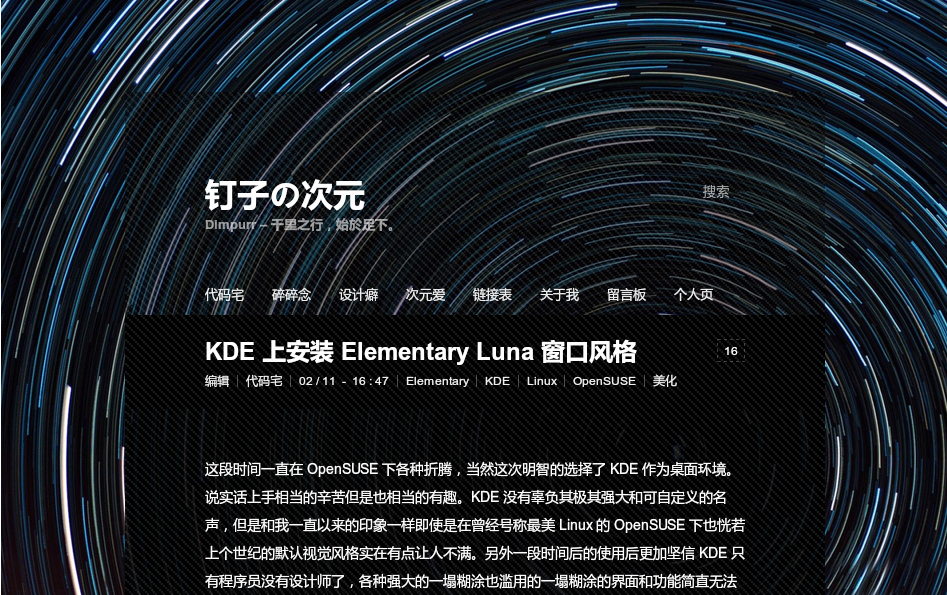
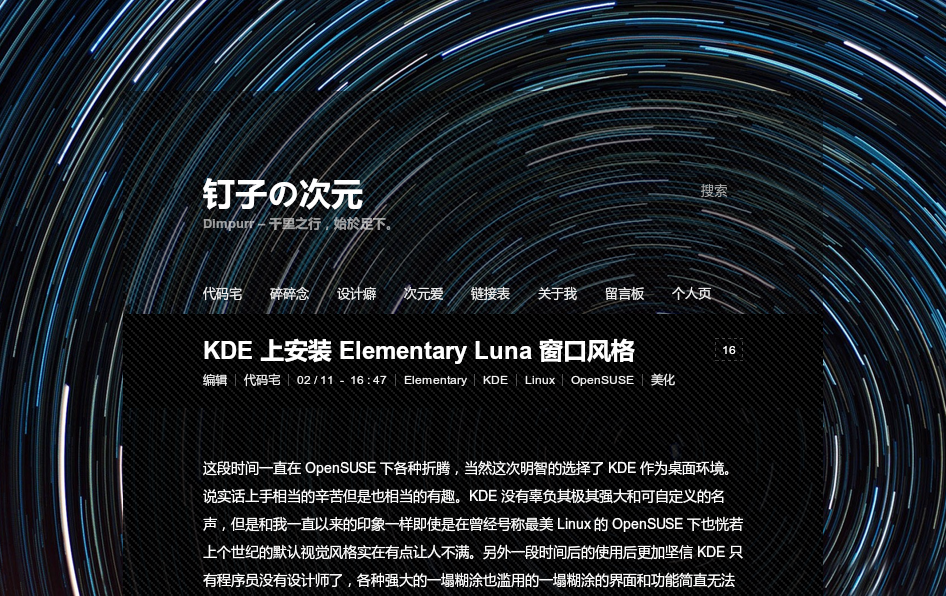
Add Setting Page and multi language.
Repair an important comments cache privacy bug.

diff --git a/style.css b/style.css
@@ -1,7 +1,7 @@
 /*
 Theme Name: madoro
 Theme URI: http://dimpurr.com/madoro
-Version: 1.0
+Version: 1.1
 Author: Dimpurr
 Author URI: http://dimpurr.com
 Description: A Flat Dark WordPress Theme.
@@ -71,7 +71,7 @@ body {
 }
 
 #page {
-	max-width: 700px;
+	max-width: 800px;
 	margin: 0 auto;
 }
 

diff --git a/functions.php b/functions.php
@@ -190,44 +190,39 @@ endif;
 
 function dpt_menu_func(){   
 	add_theme_page(
-		__('设置','dpt'),
-		__('设置','dpt'),
+		__('madoro 主题设置','dpt'),
+		__('madoro 主题设置','dpt'),
 		'administrator',
 		'dpt_menu',
 		'dpt_config');
 }
 
-// add_action('admin_menu', 'dpt_menu_func');
+function my_admin_bar_render() {
+	global $wp_admin_bar;
+	$wp_admin_bar->add_menu( array(
+		'parent' => 'wp-admin-bar-site-name',
+		'id' => 'theme_setting',
+		'title' => __('madoro 设置','dpt'),
+		'href' => admin_url( 'themes.php?page=dpt_menu'),
+	));
+}
 
-function dpt_config(){ dpt_thtj(); ?>
+add_action('admin_menu', 'dpt_menu_func');
+add_action( 'wp_before_admin_bar_render', 'my_admin_bar_render' );
+
+function dpt_config(){ dpt_count(); ?>
+
+<h1><?php _e('madoro 主题设置'); ?></h1>
 
 <form method="post" name="dpt_form" id="dpt_form">
 
-<h1><?php _e('主题设置'); ?></h1>
+	<h3><a href="http://blog.dimpurr.com/madoro">madoro 主题主页→</a></h3>
 
-<input type="text" size="80" name="dpt_example" id="dpt_example" placeholder="<?php _e('示例控件','dpt'); ?>" value="<?php echo get_option('dpt_example'); ?>"/>
-<input type="button" name="upload_button" value="<?php _e('上传','dpt'); ?>" id="upbottom"/><br>
+	<br><h3><?php _e('网站图标：','dpt'); ?></h3>
+	<input type="text" size="80" name="dpt_favi" id="dpt_favi" placeholder="<?php _e('输入 ICO/PNG 图标链接，留空调用根目录 favicon.ico','dpt'); ?>" value="<?php echo get_option('dpt_favi'); ?>"/>
 
-<input type="submit" name="option_save" value="<?php _e('保存设置','dpt'); ?>" />
-
-<?php wp_enqueue_script('thickbox'); wp_enqueue_style('thickbox'); ?>
-	<script type="text/javascript">
-	// 导入 WordPress 媒体上传组件
-jQuery(document).ready(function() {
-	// 选择按钮
-	jQuery('#upbottom').click(function() {
-		// 选择目标文本框
-		targetfield = jQuery(this).prev('#dpt_example');
-		tb_show('', 'media-upload.php?type=image&amp;TB_iframe=true');
-		return false;
-	});
-	window.send_to_editor = function(html) {
-		imgurl = jQuery('img',html).attr('src');
-		jQuery(targetfield).val(imgurl);
-		tb_remove();
-	}	
-});
-	</script>
+	<h3><?php _e('统计代码：','dpt'); ?></h3>
+	<textarea name="dpt_tongji" rows="10" cols="60" placeholder="<?php _e('输入网站统计代码','dpt'); ?>" style="font-size: 14px; font-family: Consolas, monospace, sans-serif, sans"><?php echo get_option('dpt_tongji'); ?></textarea><br>
 
 <?php wp_nonce_field('update-options'); ?>
 <input type="hidden" name="action" value="update" />

diff --git a/comments.php b/comments.php
@@ -53,16 +53,13 @@
   'fields' => apply_filters( 'comment_form_default_fields', array(
 
     'author' =>
-      '<div id="cmt_form_meta"><input placeholder="'.__('称呼','dpt').'" id="author" name="author" type="text" required="required" value="' . esc_attr( $commenter['comment_author'] ) .
-      '" />',
+      '<div id="cmt_form_meta"><input placeholder="'.__('称呼','dpt').'" id="author" name="author" type="text" required="required" />',
 
     'email' =>
-      '<input placeholder="'.__('邮箱','dpt').'" id="email" name="email" type="email" required="required" value="' . esc_attr(  $commenter['comment_author_email'] ) .
-      '" />',
+      '<input placeholder="'.__('邮箱','dpt').'" id="email" name="email" type="email" required="required" />',
 
     'url' =>
-      '<input placeholder="'.__('站点','dpt').'" id="url" name="url" type="text" value="' . esc_attr( $commenter['comment_author_url'] ) .
-      '" /></div>'
+      '<input placeholder="'.__('站点','dpt').'" id="url" name="url" type="text" /></div>'
     )
   ),
 ); ?>

diff --git a/footer.php b/footer.php
@@ -1,8 +1,9 @@
 <footer id="footer" role="contentinfo">
-
 Theme <a href="http://blog.dimpurr.com/madoro" title="Madoro">Madoro</a> Design by <a href="http://dimpurr.com" title="Dimpurr (钉子)">Dimpurr</a> |
 Proudly Powered by <a href="http://wordpress.org/" title="WordPress">WordPress</a>
 </footer>
+
+<?php $dpt_tjt = get_option('dpt_tongji'); if ( !empty($dpt_tjt) ) { echo $dpt_tjt;}; ?>
 <?php wp_footer();  ?>
 
 </div>

diff --git a/header.php b/header.php
@@ -8,6 +8,7 @@
 <link rel="stylesheet" href="<?php bloginfo('stylesheet_url'); ?>">
 <link rel="profile" href="http://gmpg.org/xfn/11" />
 <link rel="pingback" href="<?php bloginfo('pingback_url'); ?>" />
+<link rel="shortcut icon" type="image/x-icon" href="<?=get_option( 'dpt_favi', 'favicon.ico' );?>" />
 
 <meta name="viewport" content="width=device-width, initial-scale=1" />
 <meta name="author" content="dimpurr" />
